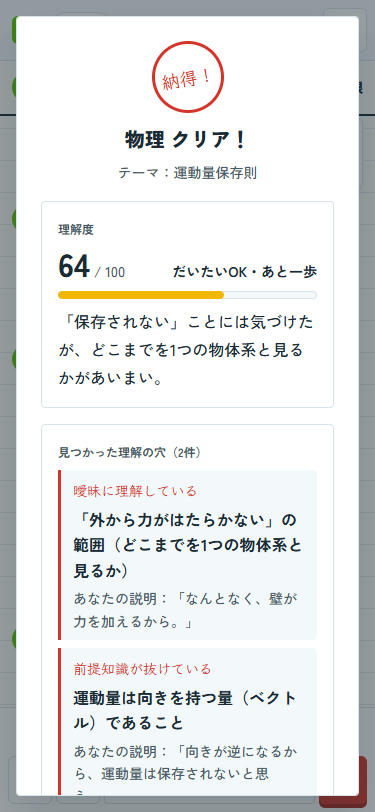
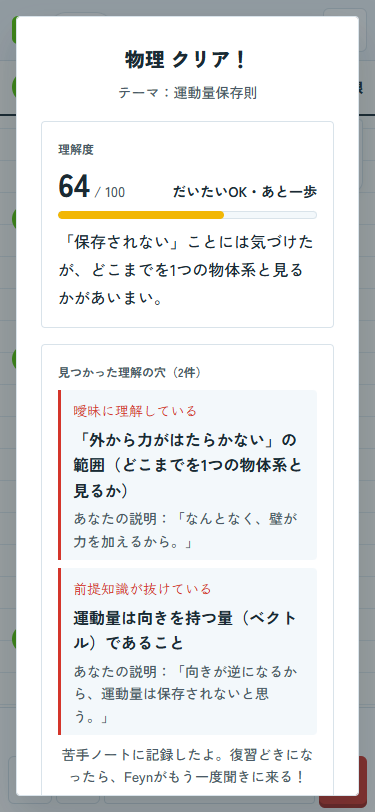
ほかの画面をそろえた記録: 改善後のスクリーンショット・比較・REPORT と、全画面のテスト
- docs/pages-redesign/: マイページ・ログイン・先生の画面・特商法・プライバシーポリシーの改善前と改善後
  （スマホ/PC × ライト/ダーク）、並べた画像、REPORT.md
- docs/chat-redesign/: 丸い判子をやめた後の撮り直しと REPORT.md の更新
- docs/DESIGN.md の「今のアプリとのずれ」を、全画面をそろえた後の状態に
- tests/test_pages_design.py: 全部の画面が theme.css とLPのフォントを使い、ボタン・見出しに絵文字が無いこと

Changed region(s): [[0.1467, 0.0308, 0.8507, 0.9852]]

diff --git a/tests/test_pages_design.py b/tests/test_pages_design.py
@@ -1,0 +1,32 @@
+# -*- coding: utf-8 -*-
+"""チャット以外の画面も、docs/DESIGN.md の共通のデザイン（theme.css）を使っていることのテスト"""
+import re
+
+import pytest
+
+PAGES = ['index.html', 'mypage.html', 'login.html', 'dashboard.html', 'student_detail.html',
+         'tokushoho.html', 'privacy.html', 'terms.html']
+EMOJI = re.compile('[\U0001F000-\U0001FAFF☀-⛿⭐⏩-⏺]')
+
+
+@pytest.mark.parametrize('path', PAGES)
+def test_page_uses_the_shared_tokens_and_font(path):
+    html = open(path, encoding='utf-8').read()
+    assert re.search(r'href="/?theme\.css"', html), path
+    assert 'Zen+Kaku+Gothic+New' in html and 'M+PLUS+Rounded' not in html
+    # ページの中で色の変数を決め直さない（theme.css のトークンを使う）
+    style = ''.join(re.findall(r'<style>(.*?)</style>', html, flags=re.S))
+    assert not re.search(r':root\s*\{[^}]*#[0-9A-Fa-f]{6}', style), path
+
+
+@pytest.mark.parametrize('path', PAGES)
+def test_buttons_and_headings_have_no_emoji(path):
+    html = open(path, encoding='utf-8').read()
+    for tag in re.findall(r'<(button|h1|h2|a)\b[^>]*>(.*?)</\1>', html, flags=re.S):
+        text = re.sub(r'<svg.*?</svg>', '', tag[1], flags=re.S)
+        assert not EMOJI.search(text), (path, text[:60])
+
+
+def test_theme_css_is_served(client):
+    resp = client.get('/theme.css')
+    assert resp.status_code == 200 and resp.mimetype == 'text/css'

diff --git a/docs/pages-redesign/REPORT.md b/docs/pages-redesign/REPORT.md
@@ -1,0 +1,61 @@
+# ほかの画面をそろえた レポート（chat-redesign ブランチ）
+
+作業日: 2026-11-05　／　ブランチ: `chat-redesign`（push・デプロイはしていません）
+テスト: 全369件パス（`py -m pytest -q`。`tests/test_pages_design.py` を17件追加）
+
+チャット画面のデザイン（`docs/chat-redesign/REPORT.md`）を「これでいい」と確認してもらったので、同じルール（`docs/DESIGN.md`）で、ほかの画面もそろえた。
+
+---
+
+## 変えたこと
+
+1. **共通のトークンを1か所に**: 色・角の丸み・影のトークン（ライト・夜の黒板）を `theme.css` にまとめ、全部の画面で読み込むようにした。チャット画面の `style.css` からも、ここに移した。古いページの変数名（`--bg`・`--card`・`--border`・`--text`・`--subtext`）もトークンにつないだ。
+2. **マイページ**: 紫のグラデーションのプランの案内を、黒板の緑に（決定のボタン「受験生プランにする」だけ赤）。タブはノートの見出しの線、カードは罫線の枠の紙。苦手ノートの「理解の穴」の種類は赤ペンの書き込み、学習のきろくの会話はチャット画面と同じ形。スマホでヘッダーの「マイページ」が縦に並んでいたのを直した。
+3. **ログイン・新規登録**: LPと同じうっすら方眼の背景、ノートの見出しの線のカード、赤の決定ボタン。パスワードの表示ボタンは線のアイコンにし、「表示する／隠す」のラベルが切り替わる。「新規登録はこちら」をボタンにして、キーボードでも押せるように。
+4. **先生のダッシュボード・生徒の詳細**: 太い枠・立体の影をやめ、角と文字の段をそろえ、緑の決定ボタンを赤に。クリア数のバッジはFeynの緑の濃さ、つまずきマップは多いほど赤ペン。**スマホで生徒の名前が縦1文字ずつになっていたのと、ダッシュボードが画面の横にはみ出していた（375pxの画面で413px）のも直した**。
+5. **特商法の表記・利用規約・プライバシーポリシー**: ノートの見出しの線、「下書き・雛形」の注意書きは蛍光ペンのメモ、未記入の所は赤字。規約・ポリシーは作成スクリプトの元を直して作り直した。
+6. **全部の画面で**: フォントはLPと同じ Zen Kaku Gothic New、ロゴは角帽のマーク、見出し・ボタンの絵文字をやめた。全部の画面が theme.css を読み込み、ボタンや見出しに絵文字が無いことをテストで確かめている。
+7. **チャット画面の丸い「納得！」の判子をやめた**（クリアの瞬間と結果の画面の上）。クリアは納得度バーの「納得！」と短い紙吹雪で伝える。
+8. **公開前チェック**: ページのCSSの中の文字（コメントなど）を数えないようにした（画面に出ないため）。
+
+### 見た目以外で直したこと
+- マイページのプランの案内にあった「ヒント・答えを見るが無制限（有料プランだけ）」を消した。どちらのプランでも回数の制限はないため（LPの料金と同じ書き方に）。
+
+---
+
+## スクリーンショット
+
+撮影: `py scripts/lp_shots.py pages docs/pages-redesign/after`（改善前と同じ条件。デモの生徒B・デモ先生、AIは台本）
+
+並べた画像は `docs/pages-redesign/compare-<画面>-<sp|pc>-<light|dark>.png`。画面は次の8つ。
+
+| 画面 | スマホ・ライト | PC・ライト | スマホ・ダーク |
+|---|---|---|---|
+| マイページ（偏差値） | [compare](compare-mypage-hensachi-sp-light.png) | [compare](compare-mypage-hensachi-pc-light.png) | [compare](compare-mypage-hensachi-sp-dark.png) |
+| マイページ（苦手ノート） | [compare](compare-mypage-gaps-sp-light.png) | [compare](compare-mypage-gaps-pc-light.png) | [compare](compare-mypage-gaps-sp-dark.png) |
+| マイページ（学習のきろく） | [compare](compare-mypage-history-sp-light.png) | [compare](compare-mypage-history-pc-light.png) | [compare](compare-mypage-history-sp-dark.png) |
+| ログイン | [compare](compare-login-sp-light.png) | [compare](compare-login-pc-light.png) | [compare](compare-login-sp-dark.png) |
+| 先生のダッシュボード | [compare](compare-dashboard-sp-light.png) | [compare](compare-dashboard-pc-light.png) | [compare](compare-dashboard-sp-dark.png) |
+| 生徒の詳細 | [compare](compare-student-sp-light.png) | [compare](compare-student-pc-light.png) | [compare](compare-student-sp-dark.png) |
+| 特商法の表記 | [compare](compare-tokushoho-sp-light.png) | [compare](compare-tokushoho-pc-light.png) | [compare](compare-tokushoho-sp-dark.png) |
+| プライバシーポリシー | [compare](compare-privacy-sp-light.png) | [compare](compare-privacy-pc-light.png) | [compare](compare-privacy-sp-dark.png) |
+
+改善前・改善後の1枚ずつの画像は `before/`・`after/` にある（PC・ダークも）。
+
+---
+
+## 判断に迷って自分で決めたこと
+
+1. **先生の画面は、自動の置き換え＋手直しにした**。CSSが長い（ダッシュボードは約500行）ので、クラス名や作りは変えずに、色・枠・影・角・文字の大きさをトークンと段に置き換え、画面を見て崩れた所（スマホのヘッダー・横のはみ出し）を手で直した。マイページとログインは、CSSを書き直した。
+2. **マイページの「復習する」ボタンは赤にしなかった**。苦手のカードの数だけ並ぶので、全部を赤にすると「1画面に決定のボタンは1つ」のルールに合わない。墨の枠のボタンにした。赤の決定ボタンは、プランの「受験生プランにする」だけ。
+3. **科目の絵文字の代わり**: マイページの学習のきろくでは、科目の頭文字（物・数・英…）を四角の印にした。ほかの所は科目名の文字だけ。
+4. **先生の画面の「ダークモード」「アプリへ戻る」の矢印（←）は残した**。絵文字ではなく文字の記号で、行き先が分かりやすいため。
+5. **PWAの設定（`manifest.json` の緑）は変えていない**。ホーム画面のアイコンの見た目に関わるので、別に決めたほうがよい。
+
+---
+
+## まだ残っていること
+
+- `manifest.json` の `theme_color`（緑 `#58CC02`）と、アイコン（`icons/`）は以前のまま。
+- 先生の画面のCSSは、置き換えで直したため、使っていない古い指定が少し残っている。次に先生の画面を直すときに整理する。
+- 先生アカウントが全生徒を見られる問題（`docs/lp/LP_IMPROVE_REPORT.md`）は、デザインとは別にそのまま。
